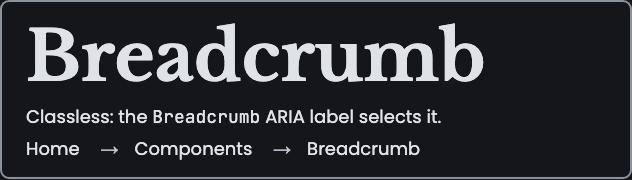
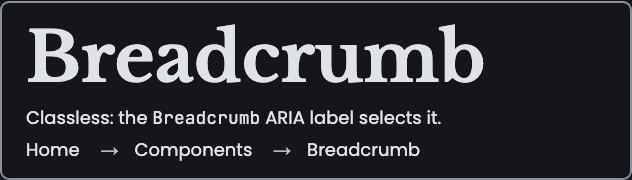
Refine: footer contrast, tighter flex/grid gaps, hero header gap
More visual feedback (dark-mode screenshots).

- Footer text contrast: the footer's copyright <p> is a DIRECT child of the
  page-end brand bar (not inside the nav), so the previous nav-scoped fix missed
  it and typography-block's `p { color: --color-on-background }` bled dark text
  onto the primary bar. Re-scope the page-end foreground override to the WHOLE
  bar — :is(header, footer):has(> nav) forces p/headings/links/li/small/etc. to
  inherit --color-on-primary. Verified: footer <p> 5.94:1 light / 7.74:1 dark.
- Flex + grid utility gaps were --spacing-block (8px row / 16px column) — too
  airy for utilities. Tighten both to a uniform --size-base (8px).
- Hero card header collided with the body: the figure over-bled. Root cause was
  double-handling — card.css zeroes the hero rail padding AND hero.css added
  negative margins, so the figure spilled ~8px past the zeroed rail into the
  sibling main, overlapping the title with the body copy. card.css owns the
  bleed (rail padding 0), so hero.css now fills at margin:0 (no negative). Also
  keep main's top padding when the header is a hero (header:not(:has(> figure))),
  since a hero rail supplies no padding gap. Verified: figure flush to card edges
  (L/R 0), 16px gap from figure to body text (was -8px overlap).

Verified: esbuild bundles; node --test exits 0 (373 pass / 9 skip); 07-refinements
screenshots.

diff --git a/v2/component/navigation.css b/v2/component/navigation.css
@@ -70,19 +70,23 @@ nav {
    links inherit the page-end label color via currentColor, so they read
    correctly on the brand band without re-declaring a color here.
    --------------------------------------------------------------------------- */
-:is(header, footer) > nav {
-  /* Re-assert the page-end bar's on-primary label color. layout.css sets it on
-     the bar, but the content layer paints h1..h6 with --color-on-surface and the
-     inline layer paints links with --color-primary — both would render
-     dark/low-contrast on the brand bar. This rule (component layer, after
-     content) forces the bar's headings + links to inherit the on-primary
-     foreground so they clear contrast against the brand background. */
+/* Page-end bar FOREGROUND (component layer, after content). layout.css sets the
+   bar's --color-on-primary label color, but the content layer paints text
+   elements explicitly — p → --color-on-background, h1..h6 → --color-on-surface,
+   inline links → --color-primary — so on the brand bar they would render
+   dark/low-contrast. Re-assert the on-primary foreground on the WHOLE bar (not
+   just the nav — the footer's copyright <p> is a direct bar child, not inside
+   the nav) and force its text to inherit, so every label on the bar clears the
+   gated primary/on-primary contrast. */
+:is(header, footer):has(> nav) {
   color: var(--color-page-end-brand-primary);
 
-  & :is(h1, h2, h3, h4, h5, h6, a) {
+  & :is(p, h1, h2, h3, h4, h5, h6, a, li, small, b, strong, em, i, cite) {
     color: inherit;
   }
+}
 
+:is(header, footer) > nav {
   display: flex;
   flex-direction: row;
   flex-wrap: wrap;

diff --git a/v2/component/hero.css b/v2/component/hero.css
@@ -101,10 +101,11 @@
   --_hero-radius: var(--border-radius-card, var(--border-radius-container));
   --_hero-min-height: calc(var(--base-size) * 16);
 
-  /* Cancel the rail's inner padding on every side so the image bleeds to the
-     card edge.  Top bleed also absorbs the card header's bottom margin gap. */
-  margin-block: calc(-1 * var(--spacing-block-vertical));
-  margin-inline: calc(-1 * var(--spacing-block-horizontal));
+  /* card.css already zeroes the hero rail's padding (and border), so the figure
+     fills the rail edge-to-edge at margin 0. No negative bleed: a negative
+     margin here would over-bleed past the already-zeroed rail and spill into the
+     sibling main, colliding the title with the body copy. */
+  margin: 0;
 }
 
 /* A card header keeps a bottom border/margin from card.css; when it holds only

diff --git a/v2/component/card.css b/v2/component/card.css
@@ -79,9 +79,11 @@
     column-gap: var(--size-large);
   }
 
-  /* A header above main already supplies the gap; trim main's top padding so
-   * the rail divider and body content do not double up. */
-  & > header + main {
+  /* A NORMAL header rail's padding-bottom already supplies the gap, so trim
+   * main's top padding to avoid doubling. A HERO header (> figure) has padding:0
+   * (the figure bleeds to the edge) and supplies NO gap, so keep main's top
+   * padding there — otherwise the body content collides with the hero. */
+  & > header:not(:has(> figure)) + main {
     padding-top: 0;
   }
 

diff --git a/v2/utility/flex.css b/v2/utility/flex.css
@@ -18,7 +18,7 @@
 .flex {
   display: flex;
   flex-direction: column;
-  gap: var(--spacing-block-vertical) var(--spacing-block-horizontal);
+  gap: var(--size-base);
 }
 
 /* Inline flex container: like `.flex` but the box itself participates inline.

diff --git a/v2/utility/grid.css b/v2/utility/grid.css
@@ -28,5 +28,5 @@
     var(--grid-column-count, var(--content-columns, 2)),
     minmax(0, 1fr)
   );
-  gap: var(--spacing-block-vertical) var(--spacing-block-horizontal);
+  gap: var(--size-base);
 }
